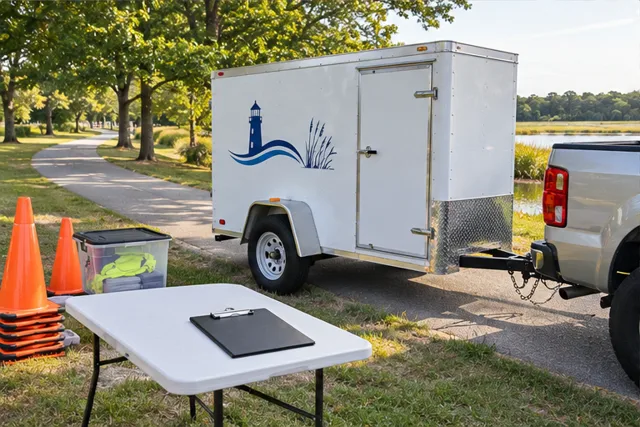
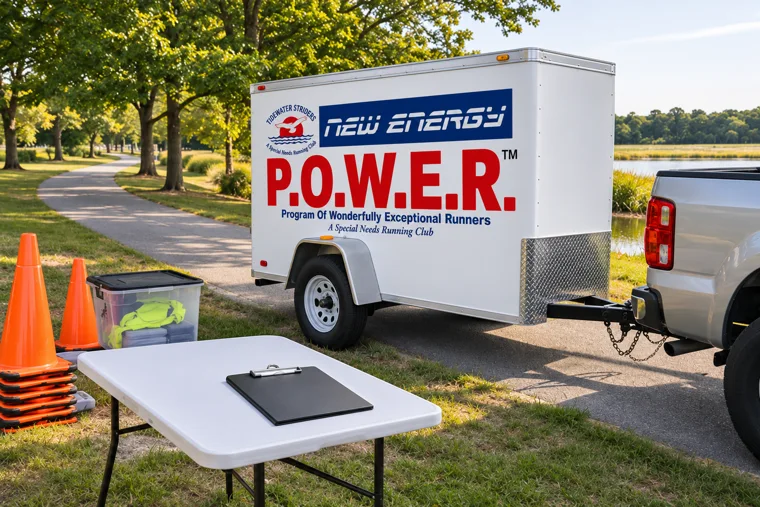
Illustrate nested Striders folders and correct the POWER trailer

diff --git a/drive-record-viewer.js b/drive-record-viewer.js
@@ -36,6 +36,23 @@ const stridersCovers=new Map([
  ['POWER Closeout and Trailer Return','striders-trailer'],
  ['Course Maps and Meeting Point','striders-maps']
 ]);
+const stridersSubfolderCovers=new Map([
+ ['Banquet','striders-banquet'],
+ ['Summer Picnic','striders-picnic'],
+ ['Summer Series','striders-summer-series'],
+ ['Working Calendar','striders-calendar'],
+ ['Membership Dues','striders-membership'],
+ ['Race Schedule','striders-race-schedule'],
+ ['Application','striders-application'],
+ ['Head Shots','striders-headshots']
+]);
+function stridersSubfolderCover(name, parentCover){
+ const matched=stridersSubfolderCovers.get(name);
+ if(matched)return matched;
+ if(/^20\d{2}$/.test(name)&&parentCover==='striders-board')return 'striders-archive';
+ if(parentCover==='striders-archive'&&/^\d{2}[ .-]20\d{2}$/.test(name))return 'striders-calendar';
+ return parentCover;
+}
 const legalMimePrefix='application/vnd.google-apps.';
 let legalPdfModule;
 async function legalDriveRequest(path,params,record,signal){
@@ -146,7 +163,7 @@ function legalFileCard(record,back){
    if(record.cover){
     const image=document.createElement('img');
     image.alt='';
-    image.src='assets/hobbies/'+record.cover+'.webp';
+    image.src='assets/hobbies/'+record.cover+'.webp'+(record.cover==='striders-trailer'?'?v=power-logo':'');
     image.onerror=()=>art.replaceChildren(fallback);
     art.replaceChildren(image);
    }else art.replaceChildren(fallback);
@@ -279,8 +296,13 @@ async function showLegalRecord(record,back){
      }
     }
     if(record.indianCoveBilling&&file.name==='Original Invoices and Receipts')continue;
+    const stridersCollection=file.folder&&(record.stridersCollection||
+     (record.tidewaterStriders&&['Events','Board Records'].includes(file.name)));
+    const cover=record.indianCove?indianCoveCovers.get(file.name):
+     record.tidewaterStriders?stridersCovers.get(file.name):
+     stridersCollection?stridersSubfolderCover(file.name,record.cover):undefined;
     files.append(legalFileCard({...file,
-     cover:record.indianCove?indianCoveCovers.get(file.name):record.tidewaterStriders?stridersCovers.get(file.name):undefined,
+     cover,stridersCollection,
      stridersMaps:record.tidewaterStriders&&file.name==='Course Maps and Meeting Point',
      map:record.stridersMaps&&file.mime==='application/pdf',
      indianCoveBilling:record.indianCove&&file.name==='Billing and Payments'

diff --git a/hobbies.html b/hobbies.html
@@ -14,7 +14,7 @@
  <div class="legal-actions" id="legal-view-actions"></div>
  <div id="legal-view-body"></div>
 </dialog>
-<script src="drive-record-viewer.js?v=20261105-striders-covers"></script>
+<script src="drive-record-viewer.js?v=20261105-striders-subfolder-covers"></script>
 <script>
 const hobbyLogos = new Map([
  ['backwoods hunt club', { file: 'backwoods.svg', fallback: '🌲' }],
